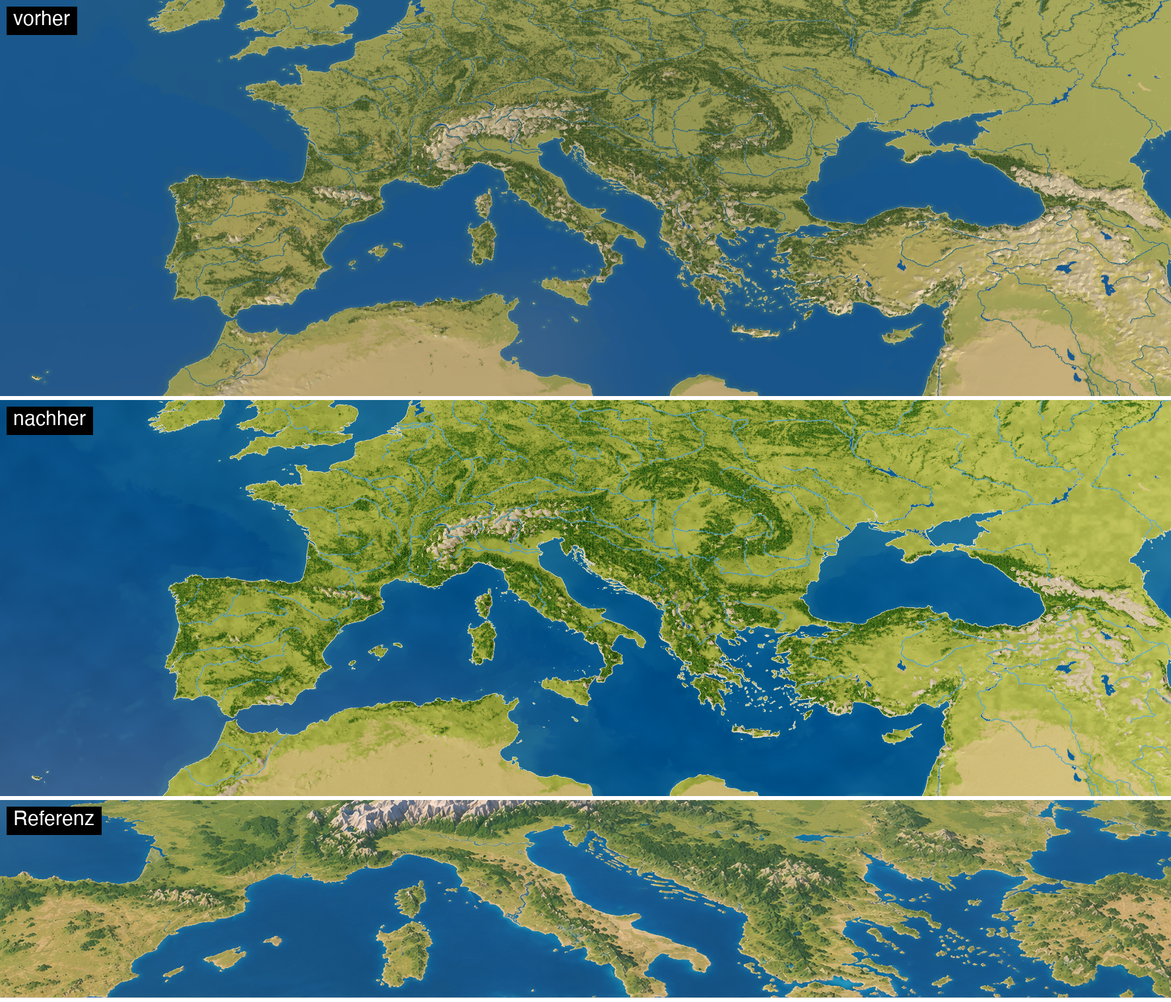
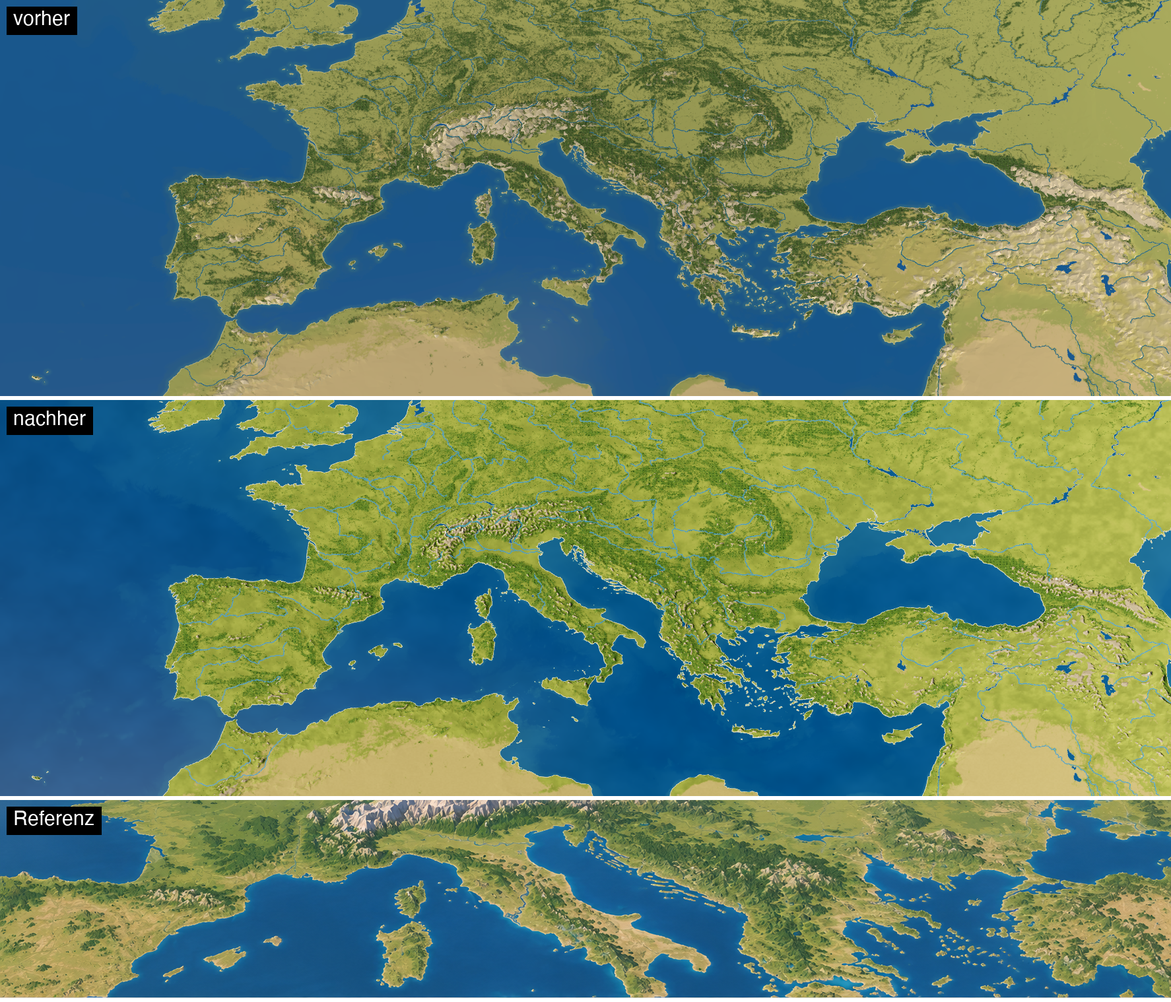
Small low-poly tree groves, rebuilt forest layout, mountain coast falloff
- Each crown record renders as a grove of six small trees with per-tree tone.
- Forest layout rebuilt with compile_complete_forest_layout.py
  (forest-layout-claude-groves-r1, 174210 records); binding matches again.
- CompactBounds no longer requires the 174-vertex V19 template.
- Mountain atlas fades out over 6-24 km from water; SDF B-spline only near
  the contour (cost); lighter forest floor.
- docs/kit1/LOOK_PASS.md documents artifacts and hash bindings.

diff --git a/tools/build_mountain_facet_surface.py b/tools/build_mountain_facet_surface.py
@@ -37,9 +37,10 @@ if (macro_m['width'], macro_m['height'], macro_m['world_min']) != (base_m['width
 # Relief mask: local 14 km range and elevation; zero on and near water.
 relief = ndimage.maximum_filter(base, 7) - ndimage.minimum_filter(base, 7)
 land = macro > 0.5
-near_water = ndimage.binary_dilation(~land, iterations=3)
-mask = smooth(relief, 300, 1100) * smooth(macro, 250, 900) * (~near_water)
-mask = ndimage.gaussian_filter(mask, 1.5)
+# Fade out over 3..12 grid nodes (6..24 km) from water: no coastal walls.
+water_distance = ndimage.distance_transform_edt(land)
+mask = smooth(relief, 300, 1100) * smooth(macro, 250, 900) * smooth(water_distance, 3, 12)
+mask = ndimage.gaussian_filter(mask, 2.0) * (water_distance > 2)
 # Ridge sharpening: boost the 6 km band-pass of the base grid, more on crests.
 low = ndimage.gaussian_filter(base, 3.0)
 detail = base - low

diff --git a/docs/kit1/LOOK_PASS.md b/docs/kit1/LOOK_PASS.md
@@ -1,0 +1,38 @@
+# Look pass (claude/project-thread-dq15bj)
+
+Goal: water and landscape visually close to
+`references/images/user-primary-landscape-style.png`. Comparison images:
+`screenshots/compare-{fern,mittel,nah}.png` (before | after | reference).
+
+## Renderer and look layer
+- `app/project.godot`: Forward+ instead of Mobile.
+- `app/scripts/style/landscape_look.gd`: ACES, SSAO, depth haze in oblique
+  views, sun from WSW, palette, zoom-dependent river width.
+- `app/shaders/terrain_look.gdshader`: sea (depth ramp, turquoise saum limited
+  to shallow water, waves, facets, surf line), terrain (colour variation,
+  facets, rock on crests/slopes/altitude, cavity darkening).
+- `app/shaders/model_sampling.gdshaderinc`: quadratic B-spline SDF sampling
+  near the contour (smooth coast instead of texel staircase).
+
+## Geometry
+- `tools/build_mountain_facet_surface.py` builds
+  `artifacts/render-data/fixed-source-v2-mountain-r1` (local data, not
+  versioned): in relief areas the 24 km macro atlas blends back to the fixed
+  2 km base grid with ridge sharpening; plains, coast and water keep the macro
+  heights. Then `tools/build_fixed_display_lods.py --surface-dir ...` for
+  `chunks.json`. `app/renderer-binding.json` `atlas` points at it.
+- Trees: `LandscapeStyle.create_tree_mesh` renders each existing crown record
+  as a grove of six small low-poly trees (about 1/3 size, tone per tree,
+  dark green to olive). Records, positions and coverage checks are unchanged.
+- Forest layout rebuilt with
+  `tools/compile_complete_forest_layout.py --mode complete --execute-complete`
+  into `artifacts/render-data/forest-layout-claude-groves-r1`;
+  `renderer-binding.json` `forest_rendering.layout` points at it.
+
+## Hash bindings
+| Binding | Resolution |
+|---|---|
+| Forest layout `binding.json` vs. runtime expectation (hashes of style, terrain/model_sampling shaders, templates, atlas identity) | Regenerated with the provided compiler. Additionally `FixedForestLayout.configure` now accepts a mismatch with a warning listing the differing keys (evidence hashes) instead of rejecting the whole forest. |
+| `CompactBounds.prepare`: exactly 174 template vertices | Relaxed to "non-empty"; the bounds stay analytic from the template's extrema. |
+| Product atlas / layout manifest sha256 in `renderer-binding.json` | Updated to the new artifacts. |
+| Forest mesh cache (`forest_cache`) | Not rebuilt: on a key mismatch the runtime falls back to the exact generator (compact path is the product default). |
